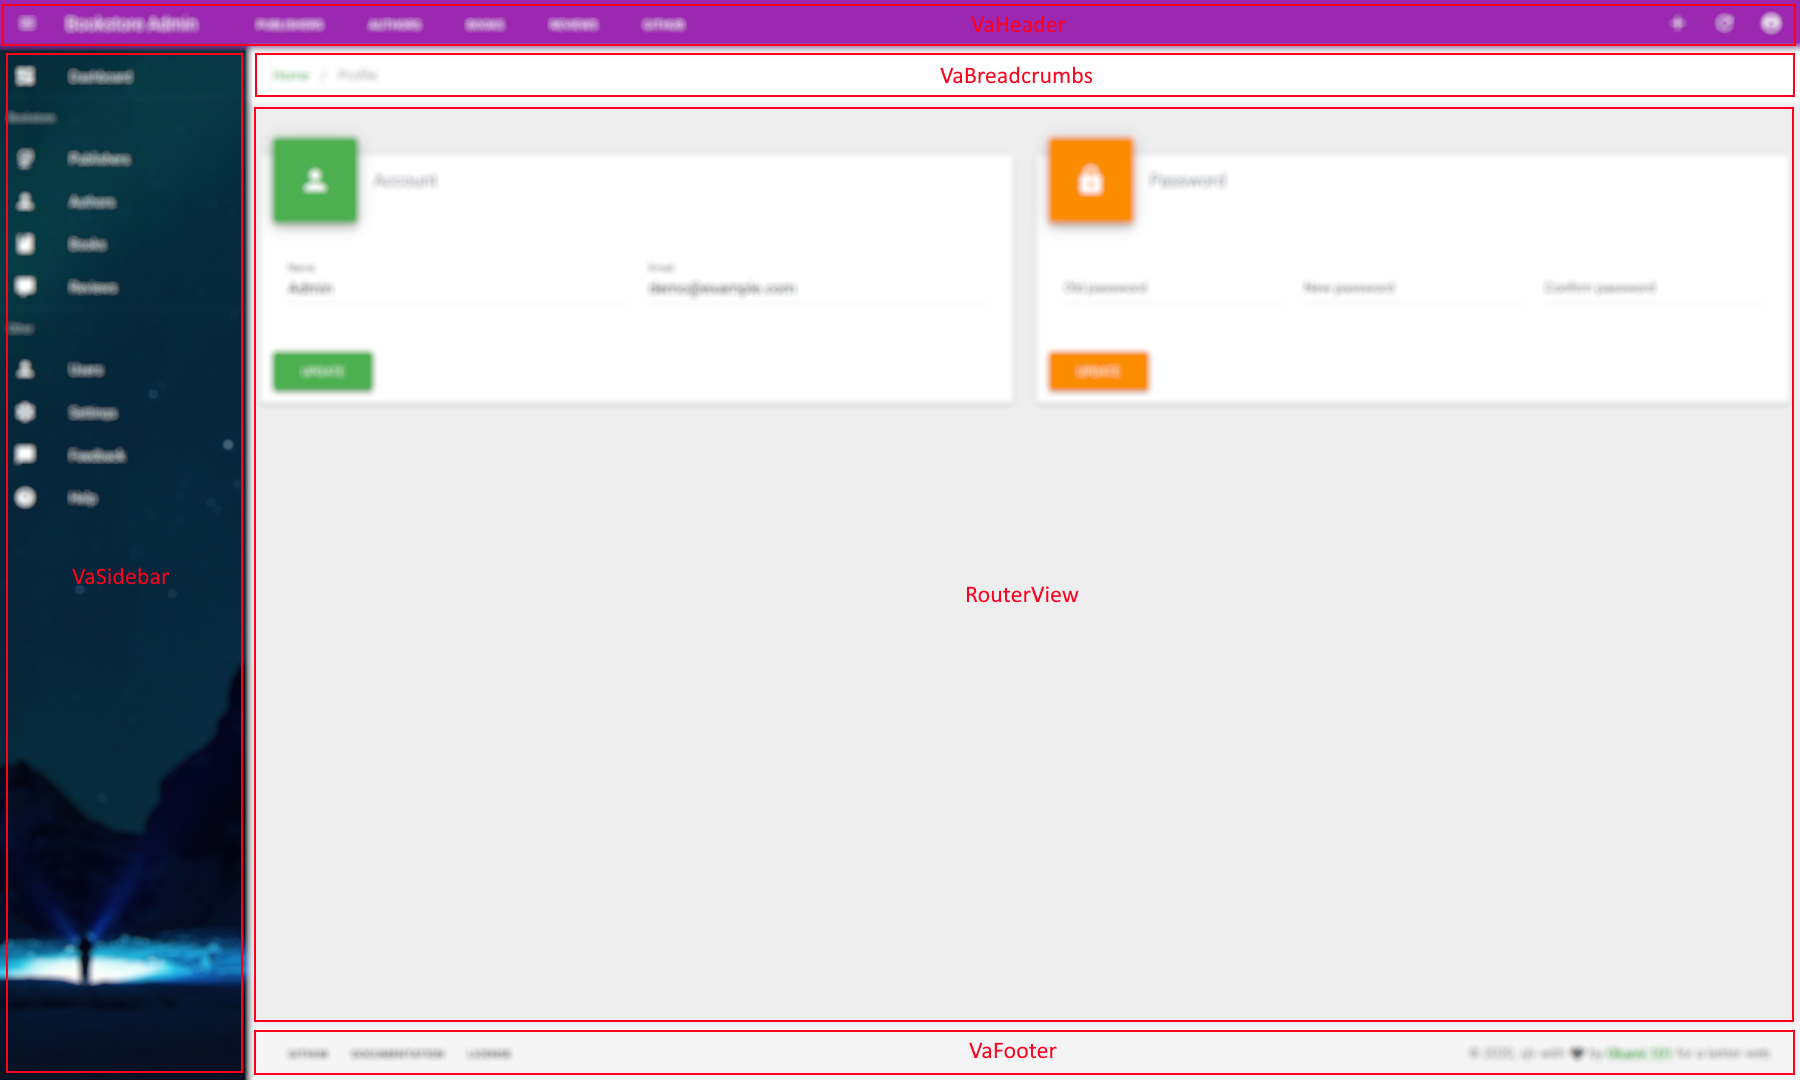
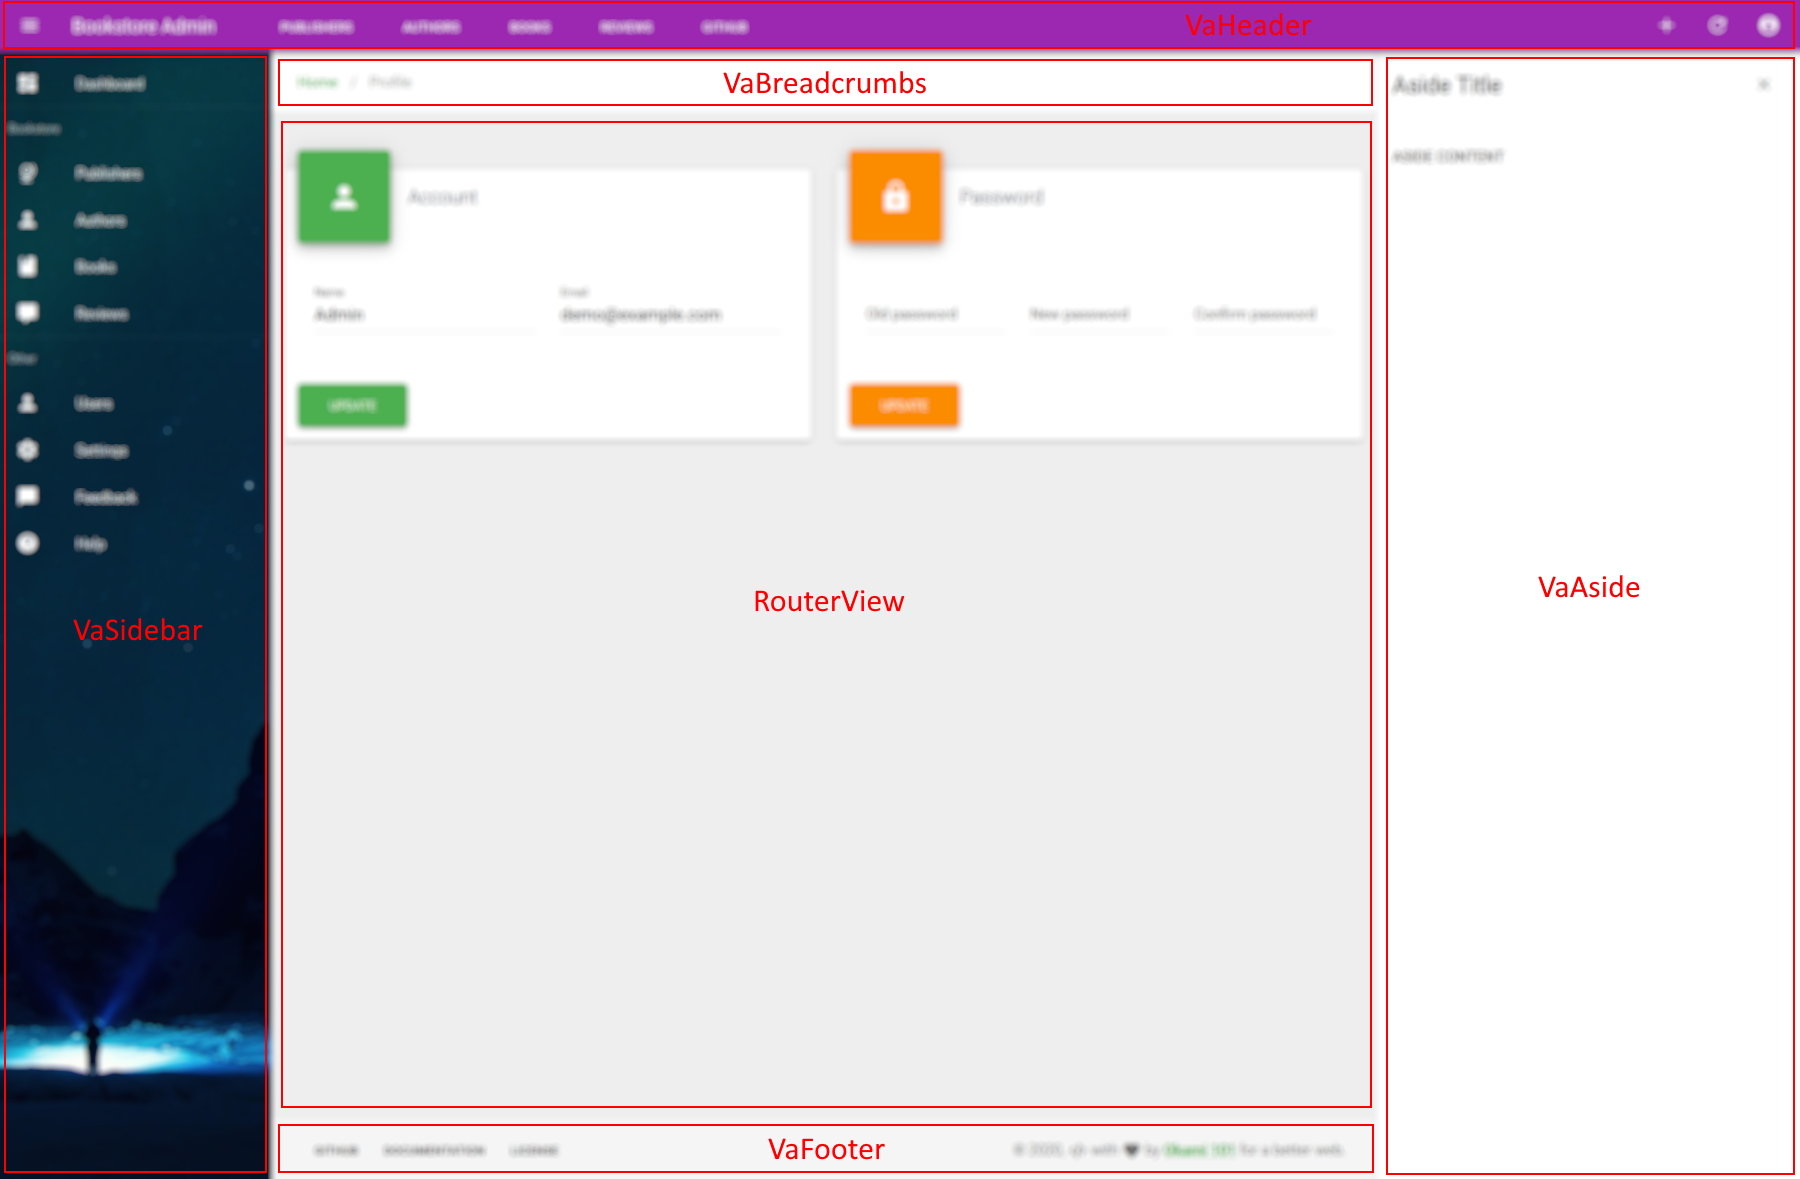
init components documentation

diff --git a/packages/admin/src/components/core/Layout.vue b/packages/admin/src/components/core/Layout.vue
@@ -1,30 +1,48 @@
 <template>
   <v-app>
     <template>
+      <!-- @slot Slot for header reagion, ideal place for VAppBar. -->
       <slot name="header"></slot>
+      <!-- @slot Slot for sidebar region, ideal place for VNavigationDrawer. -->
       <slot name="sidebar"></slot>
 
       <v-content>
         <div class="d-flex flex-column fill-height">
+          <!-- @slot Slot for content top header, ideal place for VBreadcrumbs. -->
           <slot name="breadcrumbs"></slot>
+          <!-- @slot Slot for custom messages or important notification as impersonation state, etc. -->
           <slot name="message"></slot>
-          <va-messages></va-messages>
+          <messages></messages>
           <v-container fluid>
             <router-view />
           </v-container>
 
           <v-spacer></v-spacer>
 
+          <!-- @slot Slot for footer, put here some corporate informations and links. -->
           <slot name="footer"></slot>
         </div>
       </v-content>
 
-      <slot name="aside">
-        <va-aside></va-aside>
-      </slot>
+      <!-- @slot Slot for right aside, where you can put anything you need. -->
+      <slot name="aside"></slot>
     </template>
   </v-app>
 </template>
+
+<script>
+import Messages from "../layout/Messages";
+
+/**
+ * Admin composable component layout with one slot for each region.
+ * @displayName VaLayout
+ */
+export default {
+  components: {
+    Messages,
+  },
+};
+</script>
 
 <style>
 .v-content {

diff --git a/packages/admin/src/components/layout/Header.vue b/packages/admin/src/components/layout/Header.vue
@@ -7,6 +7,10 @@
     :color="color"
     :dense="dense"
   >
+    <!--
+      Trigered on VAppBar icon click, use it with VaSidebar for minimize it.
+      @event mini
+    -->
     <v-app-bar-nav-icon @click.stop="$emit('mini')" />
     <v-toolbar-title class="ml-0 pl-4" style="width: 200px;">
       <span class="hidden-sm-and-down">{{ $admin.title }}</span>
@@ -124,21 +128,40 @@
 <script>
 import { mapState, mapGetters, mapActions } from "vuex";
 
+/**
+ * Default customizable admin VAppBar with header and profile menu, as well as some create actions.
+ * @displayName VaHeader
+ */
 export default {
   props: {
+    /**
+     * Header links visible on left side.
+     */
     headerMenu: {
       type: Array,
       default: () => [],
     },
+    /**
+     * Profile related links, visible inside authenticated dropdown menu.
+     */
     profileMenu: {
       type: Array,
       default: () => [],
     },
+    /**
+     * Color for the VAppBar.
+     */
     color: {
       type: String,
       default: "primary",
     },
+    /**
+     * Reduce height of VAppBar
+     */
     dense: Boolean,
+    /**
+     * Apply dark theme variant for VAppBar
+     */
     dark: Boolean,
   },
   computed: {

diff --git a/packages/admin/src/components/layout/Sidebar.vue b/packages/admin/src/components/layout/Sidebar.vue
@@ -7,6 +7,7 @@
     :color="color"
   >
     <template v-slot:img="props">
+      <!-- @slot Slot for full customizable image background. -->
       <slot name="img" v-bind="props"></slot>
     </template>
     <v-list dense>
@@ -61,17 +62,34 @@
 </template>
 
 <script>
+/**
+ * Default customizable admin VNavigationDrawer with full hierarchical menu and minimizable.
+ * @displayName VaSidebar
+ */
 export default {
   props: {
+    /**
+     * Main place for side menu, support hierarchical structure, MDI icons, heading and dividers.
+     * Best place for `src/_navs.js` file import.
+     */
     menu: {
       type: Array,
       default: () => [],
     },
+    /**
+     * Minimize the sidebar and show only icons.
+     */
     mini: Boolean,
+    /**
+     * Main color of VNavigationDrawer.
+     */
     color: {
       type: String,
       default: "white",
     },
+    /**
+     * Apply dark theme variant for VNavigationDrawer
+     */
     dark: Boolean,
   },
 };

diff --git a/packages/admin/src/components/layout/ActionPage.vue b/packages/admin/src/components/layout/ActionPage.vue
@@ -1,21 +1,28 @@
 <template>
   <div>
-    <slot name="header">
-      <div class="d-flex align-center mb-2">
-        <h1 class="display-2">
-          {{ title }}
-        </h1>
-        <v-spacer></v-spacer>
-        <slot name="actions"></slot>
-      </div>
-    </slot>
+    <div class="d-flex align-center mb-2">
+      <h1 class="display-2">
+        {{ title }}
+      </h1>
+      <v-spacer></v-spacer>
+      <!-- @slot Slot for action buttons. -->
+      <slot name="actions"></slot>
+    </div>
+    <!-- @slot Default slot for page content. -->
     <slot></slot>
   </div>
 </template>
 
 <script>
+/**
+ * Main CRUD action page layout used for Show, Create end Edit views components.
+ * @displayName VaActionPage
+ */
 export default {
   props: {
+    /**
+     * H1 title of the page
+     */
     title: String,
   },
 };

diff --git a/packages/admin/src/components/layout/Aside.vue b/packages/admin/src/components/layout/Aside.vue
@@ -4,7 +4,7 @@
     :clipped="$vuetify.breakpoint.lgAndUp"
     right
     app
-    :width="400"
+    :width="width"
   >
     <div class="pa-4">
       <div class="d-flex align-center">
@@ -25,7 +25,20 @@
 <script>
 import { mapState, mapMutations } from "vuex";
 
+/**
+ * Customizable admin aside component where you put some contextualized additional informations.
+ * @displayName VaAside
+ */
 export default {
+  props: {
+    /**
+     * Width of the aside
+     */
+    width: {
+      type: Number,
+      default: 400,
+    },
+  },
   computed: {
     ...mapState({
       opened: (state) => state.aside.opened,

diff --git a/packages/admin/src/components/layout/Footer.vue b/packages/admin/src/components/layout/Footer.vue
@@ -21,6 +21,7 @@
 
         <v-col cols="12" md="auto">
           <div class="font-weight-light pt-6 pt-md-0 text-center">
+            <!-- @slot Default slot for short right side informations. -->
             <slot></slot>
           </div>
         </v-col>
@@ -30,8 +31,15 @@
 </template>
 
 <script>
+/**
+ * Default customizable admin VFooter with possibility of corporate related links and infos.
+ * @displayName VaFooter
+ */
 export default {
   props: {
+    /**
+     * Corporate related links.
+     */
     menu: {
       type: Array,
       default: () => [],

diff --git a/packages/admin/src/components/ui/index.js b/packages/admin/src/components/ui/index.js
@@ -1,7 +1,7 @@
 import Datagrid from "./list/Datagrid";
 
 import Form from "./layout/Form";
-import Aside from "./layout/Aside";
+import AsideContent from "./layout/AsideContent";
 
 import ListButton from "./buttons/ListButton";
 import CreateButton from "./buttons/CreateButton";
@@ -49,7 +49,7 @@ import FileInput from "./inputs/FileInput";
 export {
   Datagrid,
   Form,
-  Aside,
+  AsideContent,
   ListButton,
   CreateButton,
   ShowButton,

diff --git a/examples/demo/src/resources/users/List.vue b/examples/demo/src/resources/users/List.vue
@@ -1,9 +1,9 @@
 <template>
   <div>
-    <va-aside v-model="asideOpened" :title="asideTitle">
+    <va-aside-content v-model="asideOpened" :title="asideTitle">
       <users-show v-if="show" :item="item"></users-show>
       <users-form v-else :id="id" :item="item" @saved="onSaved"></users-form>
-    </va-aside>
+    </va-aside-content>
     <base-material-card :icon="resource.icon" :title="title">
       <va-list
         ref="list"

diff --git a/examples/tutorial/admin/src/resources/users/List.vue b/examples/tutorial/admin/src/resources/users/List.vue
@@ -1,9 +1,9 @@
 <template>
   <div>
-    <va-aside v-model="asideOpened" :title="asideTitle">
+    <va-aside-content v-model="asideOpened" :title="asideTitle">
       <users-show v-if="show" :item="item"></users-show>
       <users-form v-else :id="id" :item="item" @saved="onSaved"></users-form>
-    </va-aside>
+    </va-aside-content>
     <base-material-card :icon="resource.icon" :title="title">
       <va-list
         ref="list"

diff --git a/packages/cli/generator/template/src/resources/users/List.vue b/packages/cli/generator/template/src/resources/users/List.vue
@@ -1,9 +1,9 @@
 <template>
   <div>
-    <va-aside v-model="asideOpened" :title="asideTitle">
+    <va-aside-content v-model="asideOpened" :title="asideTitle">
       <users-show v-if="show" :item="item"></users-show>
       <users-form v-else :id="id" :item="item" @saved="onSaved"></users-form>
-    </va-aside>
+    </va-aside-content>
     <base-material-card :icon="resource.icon" :title="title">
       <va-list
         ref="list"

diff --git a/packages/admin/src/components/layout/index.js b/packages/admin/src/components/layout/index.js
@@ -3,7 +3,6 @@ import Footer from "./Footer";
 import Sidebar from "./Sidebar";
 import Aside from "./Aside";
 import Breadcrumbs from "./Breadcrumbs";
-import Messages from "./Messages";
 import ActionPage from "./ActionPage";
 
-export { Header, Footer, Sidebar, Aside, Breadcrumbs, Messages, ActionPage };
+export { Header, Footer, Sidebar, Aside, Breadcrumbs, ActionPage };

diff --git a/examples/tutorial/admin/src/layouts/Admin.vue b/examples/tutorial/admin/src/layouts/Admin.vue
@@ -11,6 +11,7 @@
     <va-sidebar slot="sidebar" :menu="sidebarMenu" :mini="mini"></va-sidebar>
     <va-breadcrumbs slot="breadcrumbs"></va-breadcrumbs>
     <impersonate-message slot="message"></impersonate-message>
+    <va-aside slot="aside"></va-aside>
     <va-footer slot="footer" :menu="footerMenu">
       &copy; 2020,
       <v-icon size="18">
